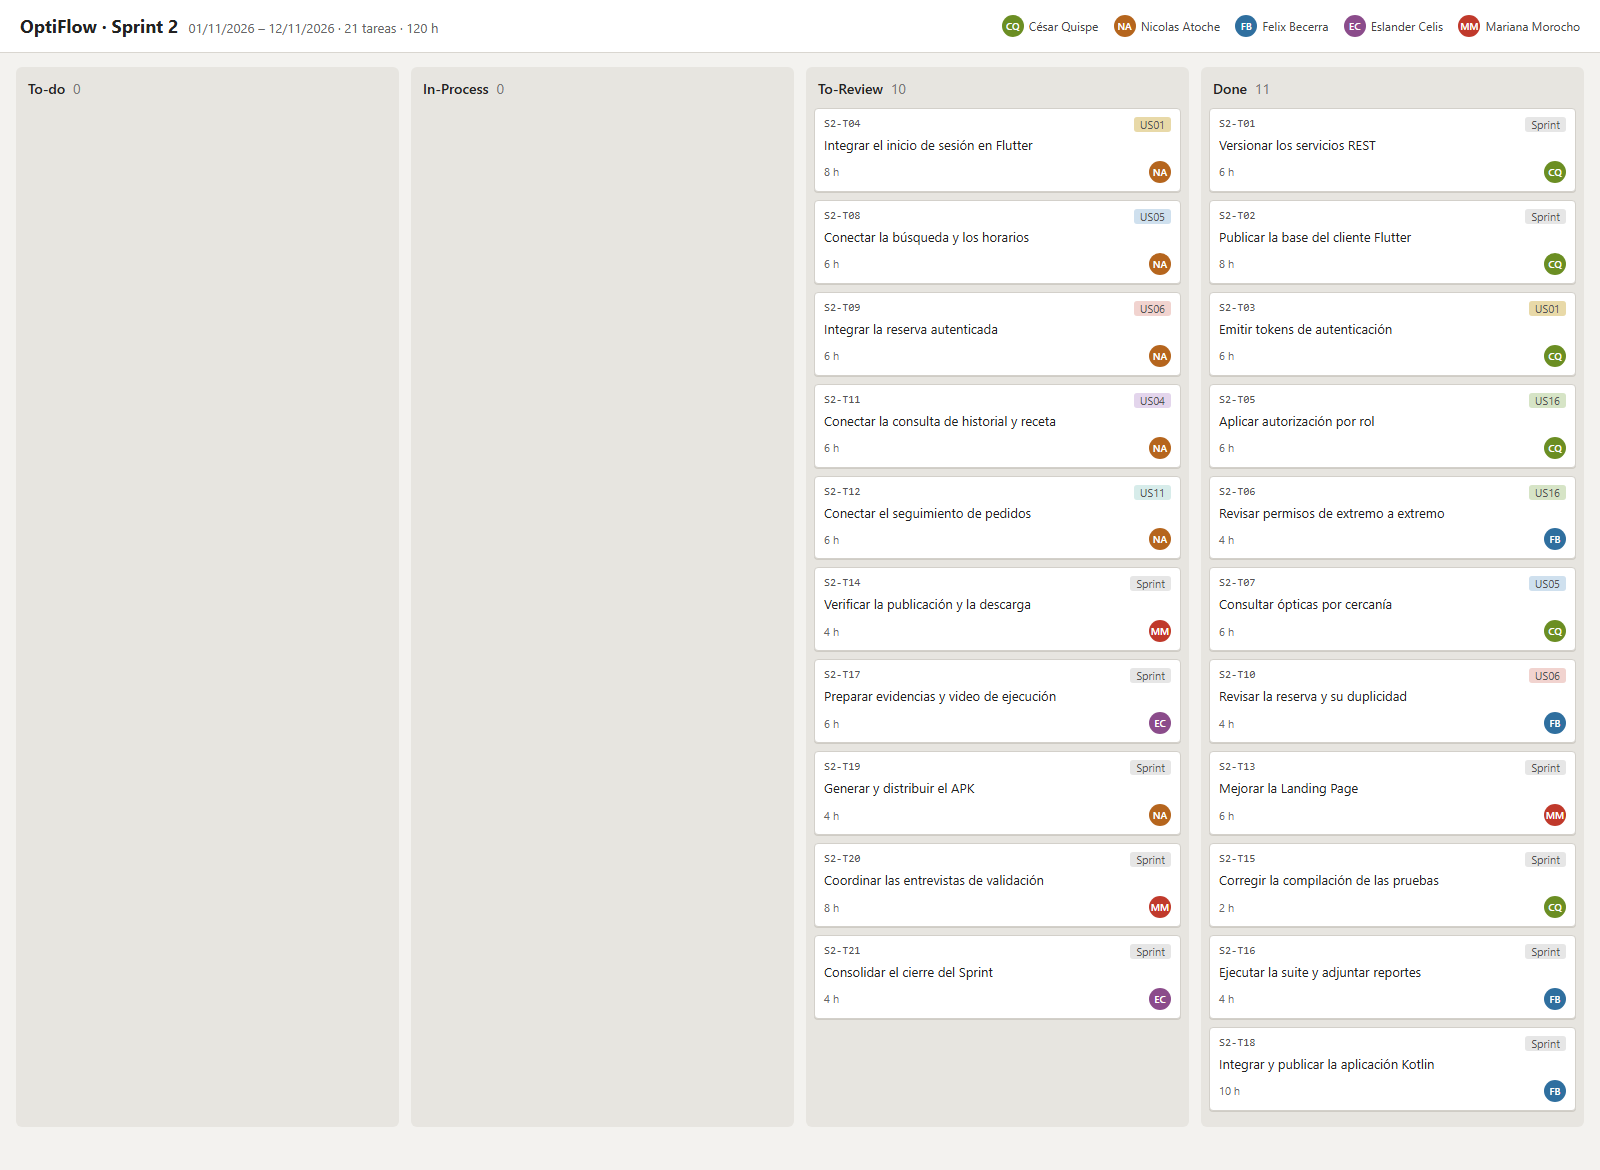
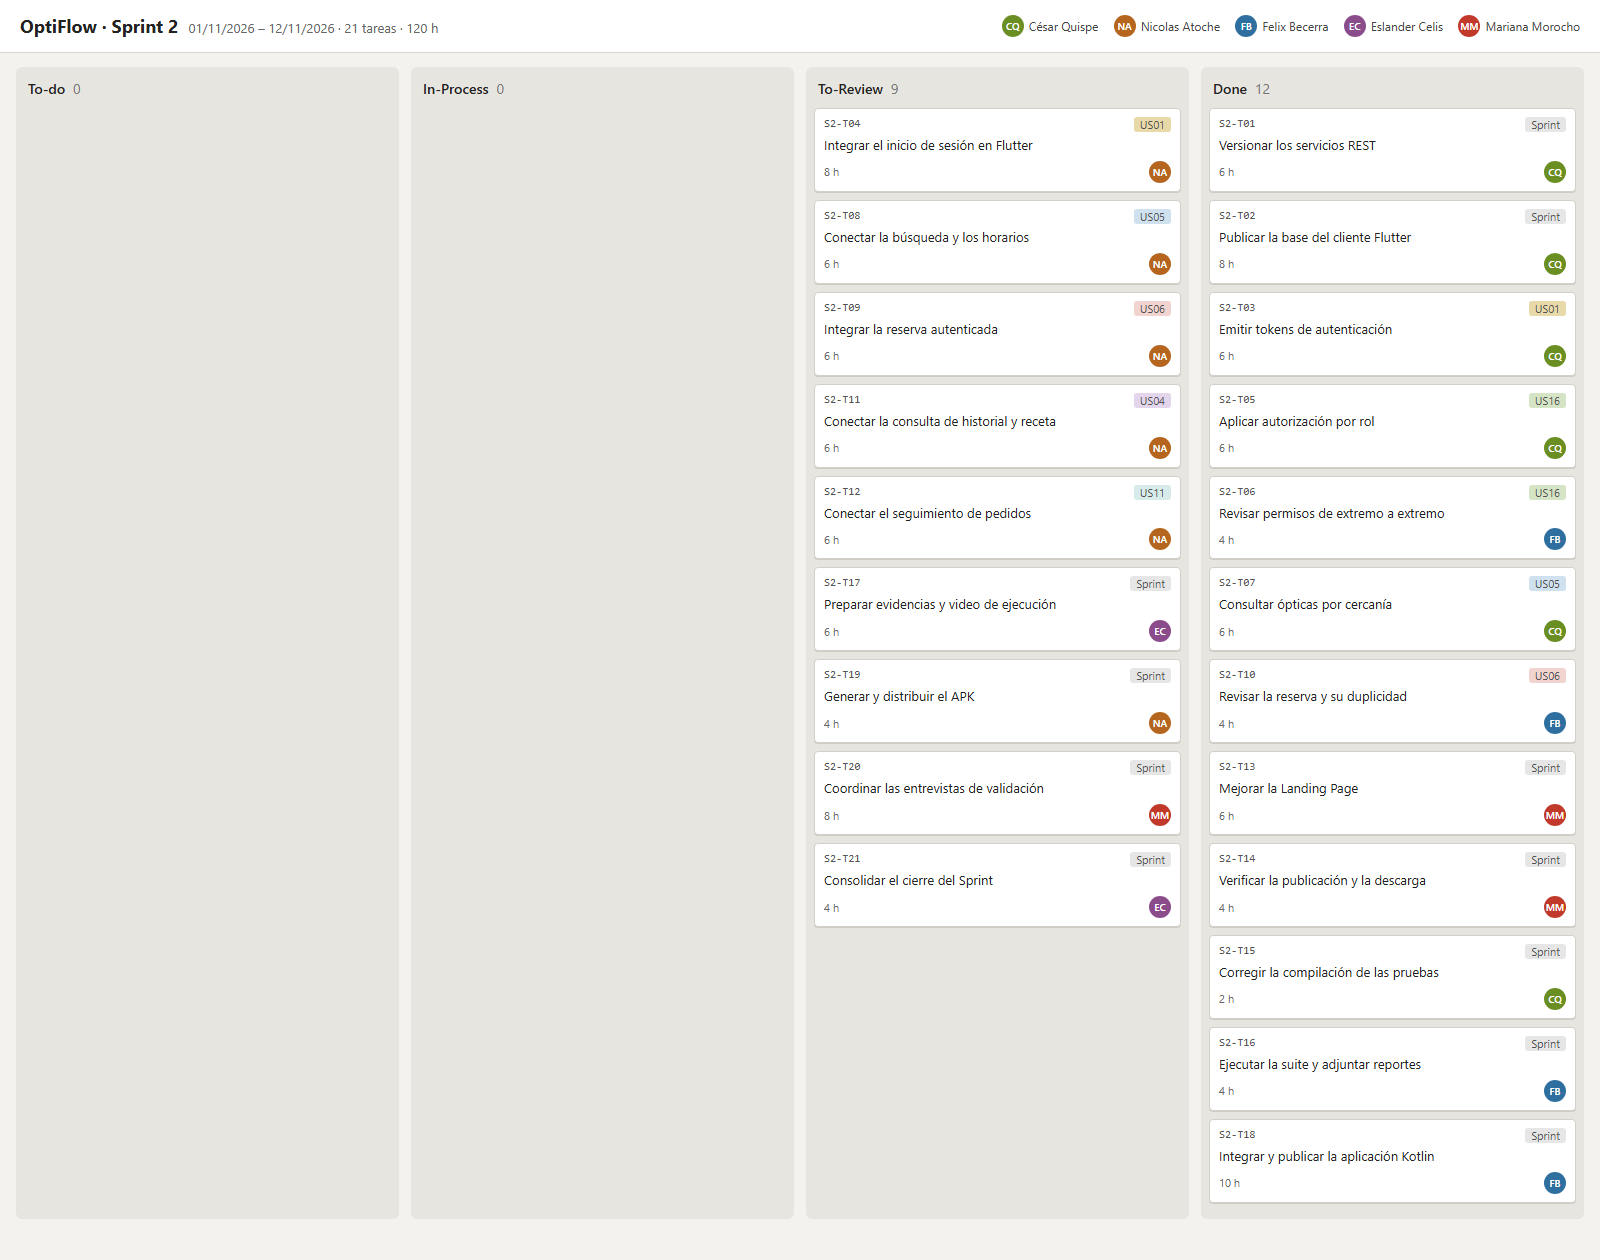
docs: fix sprint 2 backend commit and landing task status

diff --git a/Capitulo4.md b/Capitulo4.md
@@ -1552,7 +1552,7 @@ La Figura 167 presenta el tablero del Sprint 2, con las 21 tareas de la Tabla 12
 <tr><td rowspan="1">US04</td><td rowspan="1">Consulta del historial clínico y receta</td><td>S2-T11</td><td>Conectar la consulta de historial y receta</td><td>Sustituir datos de demostración por las respuestas del paciente y gestionar el historial vacío.</td><td>6</td><td>Atoche Gonzales, Nicolas Fernando</td><td>To-Review</td></tr>
 <tr><td rowspan="1">US11</td><td rowspan="1">Seguimiento del estado de los pedidos</td><td>S2-T12</td><td>Conectar el seguimiento de pedidos</td><td>Consumir /patients/{patientId}/work-orders y diferenciar el estado real de los ejemplos locales.</td><td>6</td><td>Atoche Gonzales, Nicolas Fernando</td><td>To-Review</td></tr>
 <tr><td rowspan="9">—</td><td rowspan="9">Actividades adicionales del Sprint</td><td>S2-T13</td><td>Mejorar la Landing Page</td><td>Conservar los cambios de accesibilidad, navegación, diseño y configuración de publicación del repositorio.</td><td>6</td><td>Morocho Pinedo, Mariana</td><td>Done</td></tr>
-<tr><td>S2-T14</td><td>Verificar la publicación y la descarga</td><td>Confirmar el workflow de Pages y que Descargar APK apunte a la versión que se entregará.</td><td>4</td><td>Morocho Pinedo, Mariana</td><td>To-Review</td></tr>
+<tr><td>S2-T14</td><td>Verificar la publicación y la descarga</td><td>Confirmar el workflow de Pages y que Descargar APK apunte a la versión que se entregará.</td><td>4</td><td>Morocho Pinedo, Mariana</td><td>Done</td></tr>
 <tr><td>S2-T15</td><td>Corregir la compilación de las pruebas</td><td>Corregir las solicitudes de AuthenticationAuthorizationApiTest. La corrección c287603 está integrada y la suite compila en 41bcb44.</td><td>2</td><td>Quispe Llacsahuanga, César Augusto</td><td>Done</td></tr>
 <tr><td>S2-T16</td><td>Ejecutar la suite y adjuntar reportes</td><td>Maven: 133 pruebas aprobadas el 11/11/2026 sobre 71ed60c, incluidos cuatro escenarios de aceptación. La ejecución de Flutter se revisa junto con el APK.</td><td>4</td><td>Becerra Ttito, Felix Orlando</td><td>Done</td></tr>
 <tr><td>S2-T17</td><td>Preparar evidencias y video de ejecución</td><td>Registrar Swagger, capturas de Flutter y momentos del video con la versión probada.</td><td>6</td><td>Celis Berrospi, Eslander</td><td>To-Review</td></tr>
@@ -1609,7 +1609,7 @@ La evidencia se obtiene de los historiales de los repositorios, con fechas expre
 | [BL-App-Movil-1ACC0238-2620-4951/Logix-OptiFlow-Mobile](https://github.com/BL-App-Movil-1ACC0238-2620-4951/Logix-OptiFlow-Mobile) | `develop` | [ce31259](https://github.com/BL-App-Movil-1ACC0238-2620-4951/Logix-OptiFlow-Mobile/commit/ce31259a4239e98d41087e95658eacf46fe2c69b) | `fix: let staff close sales from earlier patient records` | Permite cerrar ventas pendientes de fichas anteriores del paciente. | 11/11/2026 |
 | [BL-App-Movil-1ACC0238-2620-4951/Logix-OptiFlow-Mobile](https://github.com/BL-App-Movil-1ACC0238-2620-4951/Logix-OptiFlow-Mobile) | `develop` | [22bf023](https://github.com/BL-App-Movil-1ACC0238-2620-4951/Logix-OptiFlow-Mobile/commit/22bf023a56300f3f66ce2ba0fdb7eb660f2f387e) | `build: sign release builds with a local keystore` | Firma la versión release con un keystore que no se guarda en el repositorio. | 11/11/2026 |
 
-La aplicación Android en Kotlin ya consume el contrato `/api/v1`: usa 64 de las 70 operaciones publicadas, envía el token en las llamadas protegidas y se distribuyó como versión 1.0 (4.2.2.8). El backend `41bcb44` incorpora un contrato diferente al consumido por el cliente Flutter. El cliente Flutter `0344413` todavía usa `/login`, `/optical-stores/search` y `/availability`, y no añade el token a las solicitudes protegidas. La Tabla 129 muestra los ajustes necesarios para cerrar la integración.
+La aplicación Android en Kotlin ya consume el contrato `/api/v1`: usa 64 de las 70 operaciones publicadas, envía el token en las llamadas protegidas y se distribuyó como versión 1.0 (4.2.2.8). El backend `71ed60c` incorpora un contrato diferente al consumido por el cliente Flutter. El cliente Flutter `0344413` todavía usa `/login`, `/optical-stores/search` y `/availability`, y no añade el token a las solicitudes protegidas. La Tabla 129 muestra los ajustes necesarios para cerrar la integración.
 
 <a id="tabla-129"></a>
 
@@ -2088,7 +2088,7 @@ La Tabla 134 muestra la versión de cada producto y dónde está publicada.
 
 | Producto | Revisión de código | Evidencia disponible | Confirmación de despliegue AV2 |
 |---|---|---|---|
-| Landing Page | `main`, `ef1c032`; enlace de descarga en `6258035`. | [Workflow completado correctamente](https://github.com/BL-App-Movil-1ACC0238-2620-4951/Logix-OptiFlow-landing-page/actions/runs/42338220243) y página pública con HTTP 200, comprobados el 08/11/2026. | Publicación confirmada; capturas en las Figuras 197 y 198. El botón de descarga enlaza el [vínculo de invitación](https://appdistribution.firebase.dev/i/89d115baa19a781a) de la versión 1.0 desde el commit `6258035`, del 11/11/2026. |
+| Landing Page | `main`, `ef1c032`; enlace de descarga en `6258035`. | [Workflow completado correctamente](https://github.com/BL-App-Movil-1ACC0238-2620-4951/Logix-OptiFlow-landing-page/actions/runs/42338220243) y página pública con HTTP 200, comprobados el 08/11/2026. La [ejecución 43140453746](https://github.com/BL-App-Movil-1ACC0238-2620-4951/Logix-OptiFlow-landing-page/actions/runs/43140453746) publicó `6258035` el 11/11/2026. | Publicación confirmada; capturas en las Figuras 197 y 198. El botón de descarga enlaza el [vínculo de invitación](https://appdistribution.firebase.dev/i/89d115baa19a781a) de la versión 1.0 desde el commit `6258035`, del 11/11/2026. |
 | Backend | `develop`, `71ed60c`. | 133 pruebas aprobadas, [CI exitosa](https://github.com/BL-App-Movil-1ACC0238-2620-4951/Logix-OptiFlow-Back-End/actions/runs/43116369654) y 70 operaciones documentadas. | `71ed60c` activo en Render desde el 11/11/2026; Swagger publicado en la Figura 171. |
 | Android/Kotlin | `develop`, `22bf023`, versión 1.0 (1). | APK release firmado, instalado y probado contra Render. | Distribuida el 11/11/2026 por Firebase App Distribution al grupo `optiflow-testers`; [vínculo de invitación](https://appdistribution.firebase.dev/i/89d115baa19a781a). |
 | Flutter | `main`, `0344413`, versión `1.0.0+1`. | Código publicado y definición de pantallas, cliente HTTP y prueba de estados. | APK, enlace de distribución y captura de versión: ____________________. |
